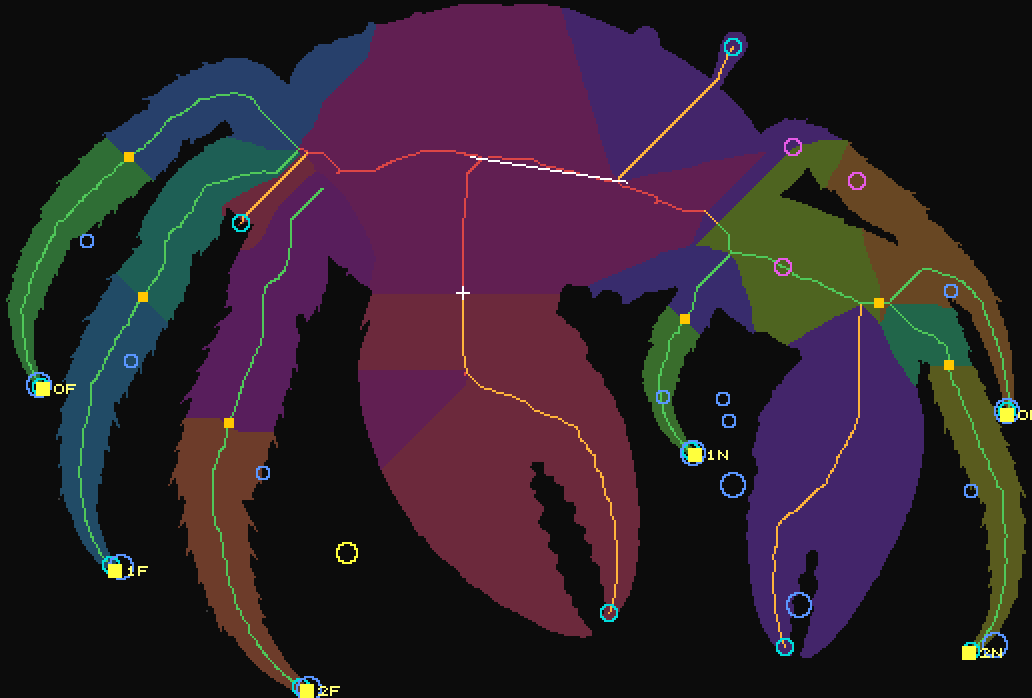
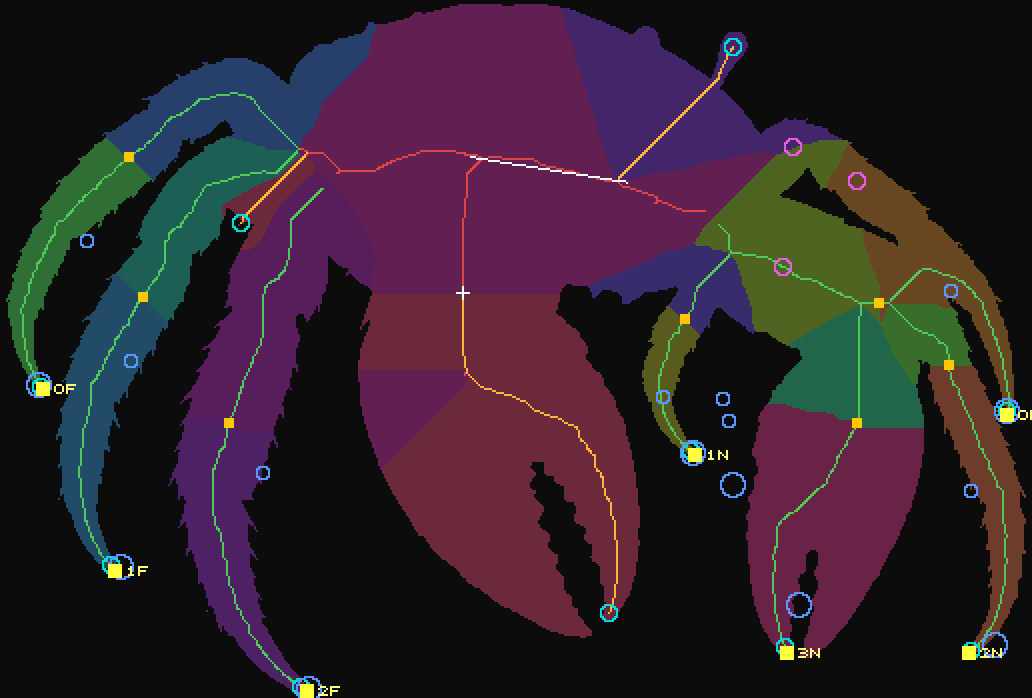
feat(anatomy-verify): touching tips at an endpoint's separation point dropped (touchNotSep) and finger-length bound 0.7 as defaults — named 29/39; loop thin-section test measured and rejected; IC-4 strict 2/6·6/6·7/10·9/10 recorded; sheet regenerated — README slice 22, ROADMAP
Claude-Session: https://claude.ai/code/session_018oxuMaBt9tmZZ1dvYosfuz

diff --git a/ROADMAP.md b/ROADMAP.md
@@ -152,7 +152,8 @@ branch push of both lanes Dakk then authorized is done (see Lane state), so orig
 
 
 ### What Claude owes next
--14. **Sheet + contact refinement (2026-09-21, this commit):** `sheet.mjs` renders the compiler's reading per subject for Dakk's eye — `audits/INTAKE_COMPILER_20260921/sheet-01/` (six PNGs + summary); contact-terminal refinement through the contract (Civet paws 18–31 px, named 27/39); appendage-slot candidates count as used (Civet ADMIT); IC-4 now positives 4/6, wrong-template 6/6, erased 7/10, duplicated 8/10. Economics grid and `thickNeedsFork` measured and rejected (README slice 21 addenda).
+-15. **Slice 22 (2026-09-21, this commit):** `touchNotSep` (a touching tip at an endpoint chain's separation point is a junction, not a tip) + `thickMaxLen` 0.7 are the defaults: named **29/39** (from 27/39), positions 30/39; IC-4 strict positives 2/6 · wrong-template 6/6 · erased 7/10 · duplicated 9/10 (lenient 3/6 · 6/10 · 7/10). Naming and verdict now pull against each other on TRUE loop-filled rear legs (crab 68 px, mud 10 px); next lever = the loop candidate's own thin-cross-section test. Sheet regenerated.
+-14. **Sheet + contact refinement (2026-09-21, commit `9145ead1`):** `sheet.mjs` renders the compiler's reading per subject for Dakk's eye — `audits/INTAKE_COMPILER_20260921/sheet-01/` (six PNGs + summary); contact-terminal refinement through the contract (Civet paws 18–31 px, named 27/39); appendage-slot candidates count as used (Civet ADMIT); IC-4 now positives 4/6, wrong-template 6/6, erased 7/10, duplicated 8/10. Economics grid and `thickNeedsFork` measured and rejected (README slice 21 addenda).
 -13. **Slice 21 (2026-09-21, commit `e071017c`):** interior-edge stage built as an off-by-default option and measured; slice 19's "no candidate" finding CORRECTED (the folded legs are in the pool, misclassified/weak); strict evidence verdict in `ic4.mjs` (erased 7/10, dup 8/10 refused, positives 3/6); second wrist cut. Bottleneck stated precisely in README slice 21: unused/empty-slot economics + terminal-thickness consistency let two false far-side candidates outbid an empty slot. Defaults unchanged (30/35, 24/34).
 -12. **Slice 20 (2026-09-21, commit `bdddefdb`):** Codex answered the hidden-placement question (`openai/mac` `78dc7dc3`, read-only note): geometric rule, `hidden-anatomy.mjs#inferHiddenLandmarks`, 0 px from the hand roots. Adopted in `assign.mjs` generalized to stations (no leg names); contract axis mapped per view (front → spine top normal). Hidden feet from the compiler's own roots: crab 108, freshwater 112, mud 391, coconut 709/460 (misnamed pair 2). Claw wrist probe: the wrist is on the body ridge between the claw root node and the spine — next P3 step is a body-edge shortest path per claw with the DT minimum as the wrist (unblocks P7 body IoU). Codex's `hidden-anatomy.mjs` is NOT merged here yet; the compiler will call it at the next local merge instead of its own copy.
 -11. **Slice 19 rounds (2026-09-21, commits `16e736a4`, `62f98e48`, this one):** naming-bottleneck rules measured and rejected with numbers (touch junction body-distance bound, loops off, even-spacing prior, gap-consistency prior, P7 leg-seed offset). **Design finding for Dakk:** the two legs no rule can name (freshwater/crab `leg0Far`, folded flat over the carapace) have no candidate at all — a limb painted over the body is inside the silhouette and invisible to the alpha-only ridge graph; an interior-edge probe shows its contour is present but texture-noisy. The compiler needs an interior-edge stage (design item) — until then a folded leg is an empty slot and an erased-leg mutant on it is undetectable by construction. Options retained off by default; defaults unchanged (crabs 30/35 positions, 24/34 named).

diff --git a/port/v2/tools/anatomy-verify/README.md b/port/v2/tools/anatomy-verify/README.md
@@ -439,3 +439,29 @@ slots as yellow squares with F/N side + station letters, knees/ankles, inferred 
 spine axis, and the record's landmarks as blue rings for comparison only) plus `sheet-summary.json` with the legend
 and per-subject scores. First sheet: `audits/INTAKE_COMPILER_20260921/sheet-01/` (six subjects at the current
 defaults: crabs 30/35 positions, 24/34 named; Civet 3/5 named, tail + four paws in slot).
+
+## Slice 22 — separation-point touching tips + finger-length bound as defaults, 2026-09-21
+The freshwater far side's false touching tip (74,625, 88 px) is exactly the SEPARATION point of the true leg1Far
+chain — the junction where that leg parts from its neighbour, not a tip resting on the body. `touchNotSep` drops a
+touching tip within 0.1 R of any endpoint candidate's separation point (narrower than the "interior" test that
+deleted the vent crab's true tips): vent 4/8 → 5/7, duplicated mutants REFUSE 10/10, erased 9/10 — but freshwater
+5/7 → 3/6 because its true rear leg (136,439) is still a "claw finger" and the empty slot slides. Both together —
+`touchNotSep` + `thickMaxLen` 0.7 (a lone thick terminal is a finger only when finger-short) — give the best
+naming so far: **29/39** (coconut 4/7, crab 5/6, freshwater 6/7, mud 6/7, vent 5/7, Civet 3/5); positions 30/39
+unchanged; hidden sets exact 3/6. Now the defaults. IC-4 with them: strict verdict positives 2/6 (freshwater,
+Civet; the crab and mud crab carry a TRUE loop-filled `leg0Far` at 68/10 px that strict evidence refuses; the
+coconut fills its declared-hidden `leg3Near` with a thick terminal now allowed as a leg; the vent leaves `leg3Near`
+empty after the false tip went), wrong-template 6/6, erased 7/10, duplicated 9/10; lenient (`IC4_STRICT=0`):
+positives 3/6, erased 6/10, duplicated 7/10. Sheet regenerated at the new defaults (`sheet-01`).
+Where it stands: naming and the verdict now pull against each other on the loop-filled rear legs — a true loop
+(crab 68 px, mud 10 px) is indistinguishable from the twelve false loops by any feature measured so far. The next
+lever is the loop candidate itself: replace "far point of a thin edge between two near-body nodes" with the same
+thin-terminal test the endpoints pass (a loop limb has a thin cross-section over ≥ 0.3 × leg length of its edge),
+so a true rear leg becomes strong evidence and the false loops (short thick bridges) drop.
+Addendum — loop thin-cross-section test (`loopThinFrac`: ≥ f of the loop edge's pixels leg-thin): 0.3 no change,
+0.5/0.7 → 25/38 (drops the crab's TRUE loop). Measured why: the three true loops (crab 68 px, freshwater 38, vent
+55) have ridge thickness 21–24 — a leg folded against the carapace shares its outline, so its ridge reads as thick —
+and the ten false loops span 11–32; length 42–74 vs 26–69. No feature measured on this set separates them.
+Rejected; kept as an option at 0. **Conclusion of the tuning rounds:** on six subjects the compiler is at the
+limit of per-rule tuning (29/39 named, positions 30/39); the next real step is more subjects through the same
+code — the second painted quadruped (PROGRAM §6's one exception) — so a rule is judged on two families, not one.
